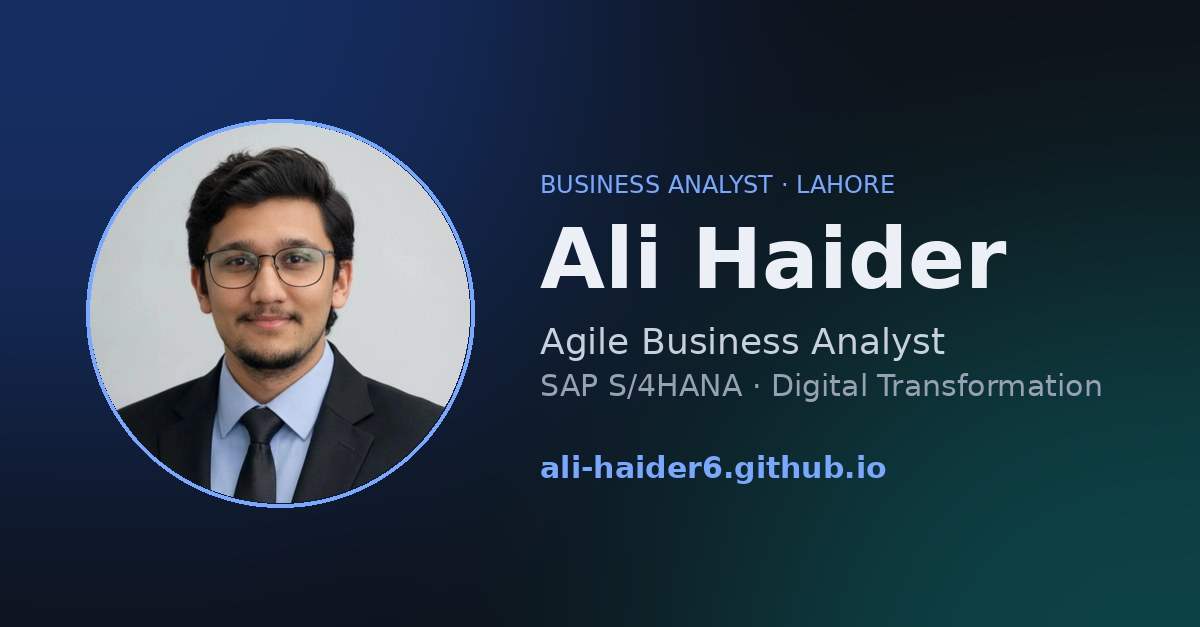
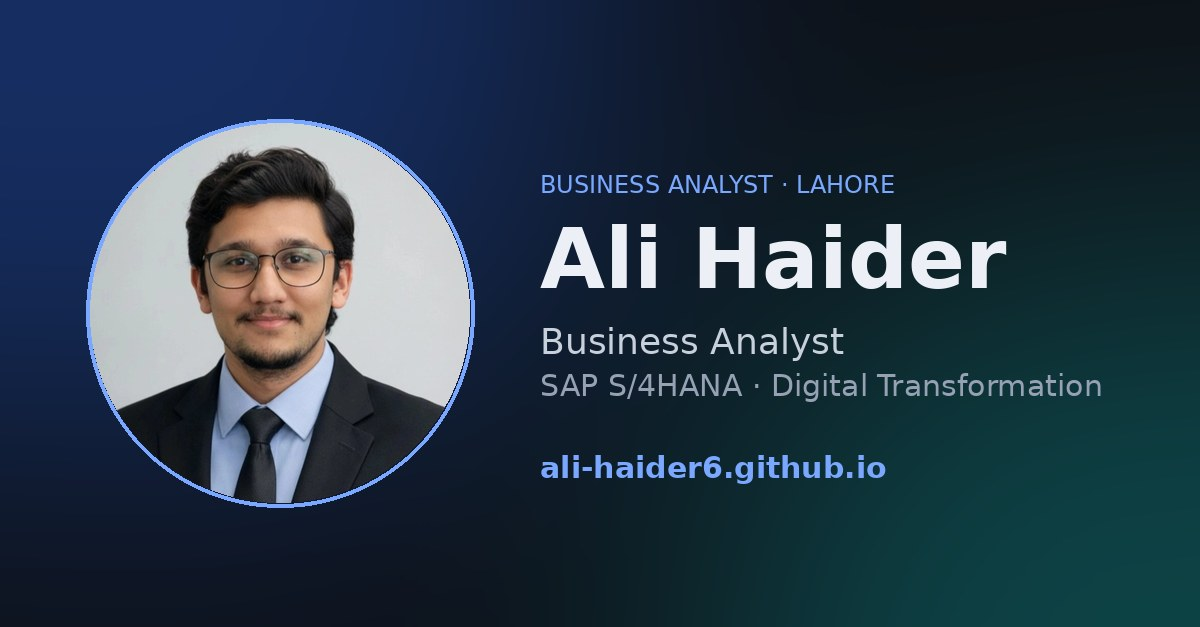
Add files via upload

Changed region(s): [[0.4317, 0.5152, 0.8017, 0.5758]]

diff --git a/index.html b/index.html
@@ -3,13 +3,13 @@
 <head>
 <meta charset="utf-8">
 <meta name="viewport" content="width=device-width, initial-scale=1, viewport-fit=cover">
-<meta name="description" content="Ali Haider — Agile Business Analyst in Lahore, Pakistan. SAP S/4HANA programs and public-sector digital platforms.">
+<meta name="description" content="Ali Haider — Business Analyst in Lahore, Pakistan. SAP S/4HANA programs and public-sector digital platforms.">
[2 lines of base64/hex data omitted]
 <meta property="og:type" content="website">
 <meta property="og:url" content="https://ali-haider6.github.io/">
 <meta property="og:title" content="Ali Haider | Business Analyst Portfolio">
-<meta property="og:description" content="Agile Business Analyst in Lahore, Pakistan. SAP S/4HANA programs, public-sector digital platforms, requirements, UAT and go-live.">
+<meta property="og:description" content="Business Analyst in Lahore, Pakistan. SAP S/4HANA programs, public-sector digital platforms, requirements, UAT and go-live.">
 <meta property="og:image" content="https://ali-haider6.github.io/og-image.jpg">
 <meta property="og:image:width" content="1200">
 <meta property="og:image:height" content="627">
@@ -346,7 +346,7 @@ footer .wrap{display:flex;justify-content:space-between;align-items:center;flex-
     <div>
     <div class="label">Business Analyst · Lahore, Pakistan</div>
     <h1>Ali <em>Haider</em></h1>
-    <div class="role">Agile Business Analyst helping organizations improve their processes and systems.</div>
+    <div class="role">Business Analyst helping organizations improve their processes and systems.</div>
     <p class="lede">I gather requirements, map current and future processes, and turn them into clear user stories and acceptance criteria. I work with teams sprint by sprint, from planning through testing, go-live and support. SAP certified, with experience on enterprise SAP S/4HANA programs and public-sector digital platforms.</p>
     <div class="cta">
       <a class="btn primary" href="#work">See my projects</a>
